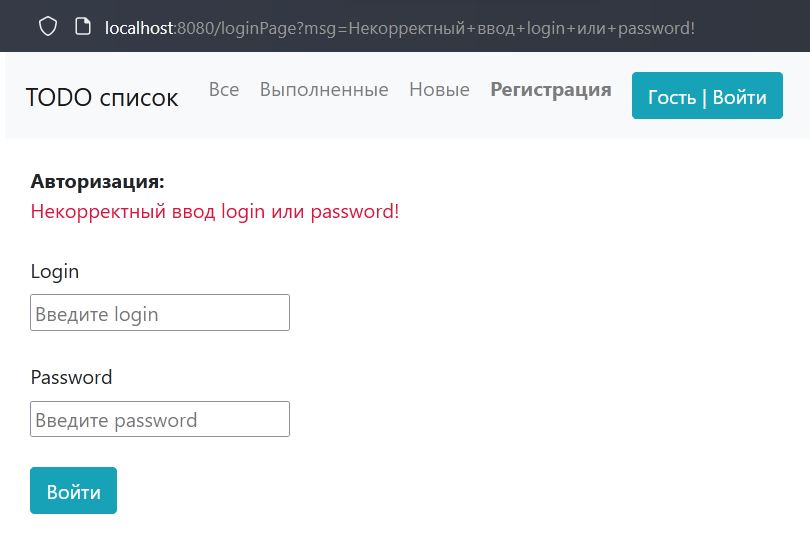
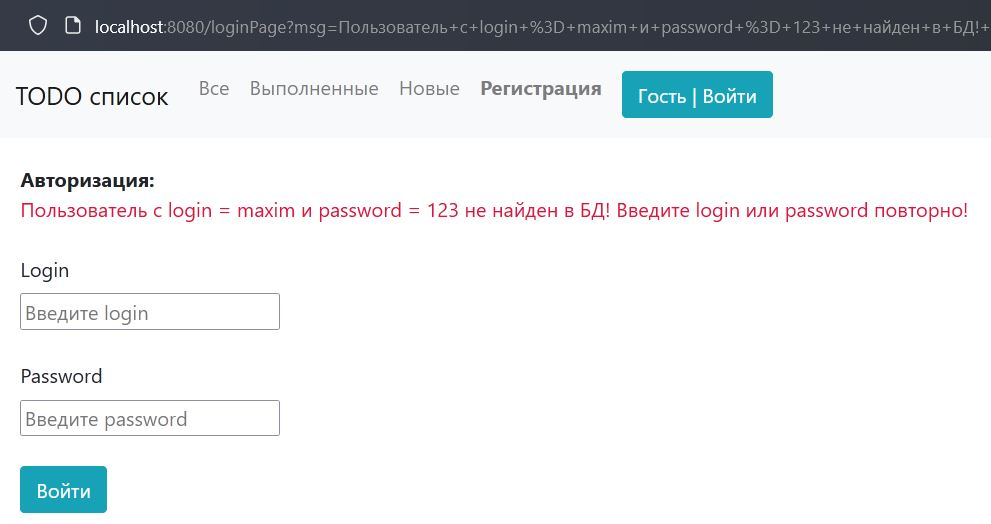
Editing signatures of methods of layers of services and persistence

diff --git a/src/main/java/ru/job4j/todo/service/user/UserServiceImpl.java b/src/main/java/ru/job4j/todo/service/user/UserServiceImpl.java
@@ -5,8 +5,6 @@ import org.springframework.stereotype.Service;
 import ru.job4j.todo.model.User;
 import ru.job4j.todo.repository.user.UserRepository;
 
-import java.util.Optional;
-
 /**
  * Реализация сервиса пользователей
  */
@@ -21,6 +19,23 @@ public class UserServiceImpl implements UserService {
 
     @Override
     public User add(User user) {
+        String userName = user.getName();
+        boolean find = store.findUserByLogin(user.getLogin());
+        if (userName.equals("Гость")) {
+            throw new IllegalArgumentException(
+                            "Уважаемый пользователь! Введённое вами имя "
+                                    + "'Гость' не может быть использовано в "
+                                    + "приложении! Придумайте другое имя!"
+                    );
+        }
+        if (find) {
+            throw new IllegalArgumentException(
+                    String.format(
+                    "Уважаемый/ая, %s! Пользователь с login = %s уже существует! "
+                            + "Придумайте другой login!",
+                            user.getName(), user.getLogin()
+            ));
+        }
         return store.add(user);
     }
 
@@ -35,17 +50,38 @@ public class UserServiceImpl implements UserService {
     }
 
     @Override
-    public Optional<User> findUserByLoginAndPwd(String login, String password) {
+    public User findUserByLoginAndPwd(String login, String password) {
         return store.findUserByLoginAndPwd(login, password);
     }
 
     @Override
-    public Optional<User> findUserById(int id) {
+    public User findUserById(int id) {
         return store.findUserById(id);
     }
 
     @Override
     public void update(User user) {
+        User current = findUserById(user.getId());
+        String currentLogin = current.getLogin();
+        String userName = user.getName();
+        String userLogin = user.getLogin();
+        if (userName.equals("Гость")) {
+            throw new IllegalArgumentException(
+                    String.format(
+                            "Уважаемый/ая, %s! Пользователь с именем 'Гость' "
+                                    + "не может быть зарегистрирован в "
+                                    + "системе! Придумайте другое имя!",
+                            current.getName()
+                    ));
+        }
+        if (findUserByLogin(userLogin) && !userLogin.equals(currentLogin)) {
+            throw new IllegalArgumentException(
+                    String.format(
+                            "Уважаемый/ая, %s! Пользователь с login = %s уже "
+                                    + "существует! Придумайте другой login!",
+                            current.getName(), userLogin
+                    ));
+        }
         store.update(user);
     }
 }

diff --git a/src/main/java/ru/job4j/todo/repository/user/UserRepositoryImpl.java b/src/main/java/ru/job4j/todo/repository/user/UserRepositoryImpl.java
@@ -6,7 +6,7 @@ import ru.job4j.todo.model.User;
 import ru.job4j.todo.repository.crud.CrudRepository;
 
 import java.util.Map;
-import java.util.Optional;
+import java.util.NoSuchElementException;
 
 /**
  * Реализация хранилища пользователей
@@ -41,21 +41,30 @@ public class UserRepositoryImpl implements UserRepository {
     }
 
     @Override
-    public Optional<User> findUserByLoginAndPwd(String login, String password) {
+    public User findUserByLoginAndPwd(String login, String password) {
         return crudRepository.optional(
                 "from User where login = :fLogin AND password = :fPwd",
                 User.class,
                 Map.of("fLogin", login, "fPwd", password)
-        );
+        ).orElseThrow(
+                () -> new NoSuchElementException(
+                        String.format("Пользователь с login = %s"
+                                + " и password = %s не найден в БД! ",
+                                login, password)
+                ));
     }
 
     @Override
-    public Optional<User> findUserById(int id) {
+    public User findUserById(int id) {
         return crudRepository.optional(
                 "from User where id = :fId",
                 User.class,
                 Map.of("fId", id)
-        );
+        ).orElseThrow(
+                () -> new NoSuchElementException(
+                        String.format("Пользователь с id = %d"
+                                        + " не найден в БД! ", id)
+                ));
     }
 
     @Override

diff --git a/src/main/java/ru/job4j/todo/repository/user/UserRepository.java b/src/main/java/ru/job4j/todo/repository/user/UserRepository.java
@@ -2,8 +2,6 @@ package ru.job4j.todo.repository.user;
 
 import ru.job4j.todo.model.User;
 
-import java.util.Optional;
-
 /**
  * Хранилище пользователей
  */
@@ -26,18 +24,18 @@ public interface UserRepository {
      * Находит пользователя в базе данных по login и password.
      * @param login login пользователя.
      * @param password password пользователя.
-     * @return Optional<User>, если пользователь найден в базе данных,
-     * иначе Optional.empty()
+     * @return пользователя, если он найден,
+     * иначе выбрасывает исключение
      */
-    Optional<User> findUserByLoginAndPwd(String login, String password);
+    User findUserByLoginAndPwd(String login, String password);
 
     /**
      * Находит пользователя в базе данных по ID.
      * @param id пользователя.
-     * @return Optional<User>, если пользователь найден в базе данных,
-     * иначе Optional.empty()
+     * @return пользователя, если он найден,
+     * иначе выбрасывает исключение
      */
-    Optional<User> findUserById(int id);
+    User findUserById(int id);
 
     /**
      * Проверяет наличие пользователя в базе данных по login.

diff --git a/src/main/java/ru/job4j/todo/service/user/UserService.java b/src/main/java/ru/job4j/todo/service/user/UserService.java
@@ -2,8 +2,6 @@ package ru.job4j.todo.service.user;
 
 import ru.job4j.todo.model.User;
 
-import java.util.Optional;
-
 /**
  * Сервис пользователей
  */
@@ -26,18 +24,18 @@ public interface UserService {
      * Находит пользователя по login и password.
      * @param login login пользователя.
      * @param password password пользователя.
-     * @return Optional<User>, если пользователь найден,
-     * иначе Optional.empty()
+     * @return пользователя, если он найден,
+     * иначе выбрасывает исключение
      */
-    Optional<User> findUserByLoginAndPwd(String login, String password);
+    User findUserByLoginAndPwd(String login, String password);
 
     /**
      * Находит пользователя по ID.
      * @param id id пользователя.
-     * @return Optional<User>, если пользователь найден,
-     * иначе Optional.empty()
+     * @return пользователя, если он найден,
+     * иначе выбрасывает исключение
      */
-    Optional<User> findUserById(int id);
+    User findUserById(int id);
 
     /**
      * Находит пользователя по login.

diff --git a/src/main/java/ru/job4j/todo/repository/item/priority/PriorityRepositoryImpl.java b/src/main/java/ru/job4j/todo/repository/item/priority/PriorityRepositoryImpl.java
@@ -7,7 +7,7 @@ import ru.job4j.todo.repository.crud.CrudRepository;
 
 import java.util.List;
 import java.util.Map;
-import java.util.Optional;
+import java.util.NoSuchElementException;
 
 /**
  * Реализация хранилища приоритетов задач
@@ -28,11 +28,16 @@ public class PriorityRepositoryImpl implements PriorityRepository {
     }
 
     @Override
-    public Optional<Priority> findByPosition(int position) {
+    public Priority findByPosition(int position) {
         return crudRepository.optional(
                 "from Priority where position = :fPos",
                 Priority.class,
                 Map.of("fPos", position)
+        ).orElseThrow(
+                () -> new NoSuchElementException(
+                        String.format("Приоритет с position = %d"
+                                + " не найден в БД! ", position)
+                )
         );
     }
 }

diff --git a/src/main/java/ru/job4j/todo/repository/timezonestore/TimeZoneRepositoryImpl.java b/src/main/java/ru/job4j/todo/repository/timezonestore/TimeZoneRepositoryImpl.java
@@ -7,7 +7,7 @@ import ru.job4j.todo.repository.crud.CrudRepository;
 
 import java.util.List;
 import java.util.Map;
-import java.util.Optional;
+import java.util.NoSuchElementException;
 
 /**
  * Реализация хранилища часовых поясов
@@ -28,11 +28,15 @@ public class TimeZoneRepositoryImpl implements TimeZoneRepository {
     }
 
     @Override
-    public Optional<TimeZone> findById(int tzId) {
+    public TimeZone findById(int tzId) {
         return crudRepository.optional(
                 "from TimeZone where id = :fId",
                 TimeZone.class,
                 Map.of("fId", tzId)
-        );
+        ).orElseThrow(
+                () -> new NoSuchElementException(
+                        String.format("Часовой пояс с id = %d"
+                                + " не найден в БД! ", tzId)
+                ));
     }
 }

diff --git a/src/main/java/ru/job4j/todo/repository/item/category/CategoryRepositoryImpl.java b/src/main/java/ru/job4j/todo/repository/item/category/CategoryRepositoryImpl.java
@@ -7,7 +7,7 @@ import ru.job4j.todo.repository.crud.CrudRepository;
 
 import java.util.List;
 import java.util.Map;
-import java.util.Optional;
+import java.util.NoSuchElementException;
 
 /**
  * Реализация хранилища категорий
@@ -28,11 +28,15 @@ public class CategoryRepositoryImpl implements CategoryRepository {
     }
 
     @Override
-    public Optional<Category> findById(int id) {
+    public Category findById(int id) {
         return crudRepository.optional(
                 "from Category where id = :fId",
                 Category.class,
                 Map.of("fId", id)
-        );
+        ).orElseThrow(
+                () -> new NoSuchElementException(
+                        String.format("Категория с id = %d"
+                                        + " не найдена в БД! ", id)
+                ));
     }
 }

diff --git a/src/main/java/ru/job4j/todo/repository/item/priority/PriorityRepository.java b/src/main/java/ru/job4j/todo/repository/item/priority/PriorityRepository.java
@@ -3,7 +3,6 @@ package ru.job4j.todo.repository.item.priority;
 import ru.job4j.todo.model.Priority;
 
 import java.util.List;
-import java.util.Optional;
 
 /**
  * Хранилище для приоритетов задач
@@ -19,8 +18,8 @@ public interface PriorityRepository {
     /**
      * Находит приоритет в базе данных по его числовому значению
      * @param position числовое значение приоритета
-     * @return Optional.of(priority), если приоритет найден,
-     * иначе Optional.empty()
+     * @return приоритет, если он найден,
+     * иначе выбрасывает исключение
      */
-    Optional<Priority> findByPosition(int position);
+    Priority findByPosition(int position);
 }

diff --git a/src/main/java/ru/job4j/todo/service/item/priority/PriorityService.java b/src/main/java/ru/job4j/todo/service/item/priority/PriorityService.java
@@ -3,7 +3,6 @@ package ru.job4j.todo.service.item.priority;
 import ru.job4j.todo.model.Priority;
 
 import java.util.List;
-import java.util.Optional;
 
 /**
  * Сервис приоритетов задач
@@ -19,8 +18,8 @@ public interface PriorityService {
     /**
      * Находит приоритет задачи по его числовому значению
      * @param position числовое значение приоритета
-     * @return Optional.of(priority), если приоритет найден,
-     * иначе Optional.empty()
+     * @return приоритет, если он найден,
+     * иначе выбрасывает исключение
      */
-    Optional<Priority> findByPosition(int position);
+    Priority findByPosition(int position);
 }

diff --git a/src/main/java/ru/job4j/todo/repository/item/ItemRepository.java b/src/main/java/ru/job4j/todo/repository/item/ItemRepository.java
@@ -4,7 +4,6 @@ import ru.job4j.todo.model.Item;
 import ru.job4j.todo.model.User;
 
 import java.util.List;
-import java.util.NoSuchElementException;
 
 /**
  * Хранилище задач пользователя
@@ -64,8 +63,8 @@ public interface ItemRepository {
      * Находит задачу в базе данных по ID, принадлежащую пользователю.
      * @param id id задачи,
      * @param user пользователь
-     * @return задачу, если она найдена в базе данных,
+     * @return задачу, если она найдена,
      * иначе выбрасывает исключение
      */
-    Item findById(int id, User user) throws NoSuchElementException;
+    Item findById(int id, User user);
 }

diff --git a/src/main/java/ru/job4j/todo/repository/timezonestore/TimeZoneRepository.java b/src/main/java/ru/job4j/todo/repository/timezonestore/TimeZoneRepository.java
@@ -3,7 +3,6 @@ package ru.job4j.todo.repository.timezonestore;
 import ru.job4j.todo.model.TimeZone;
 
 import java.util.List;
-import java.util.Optional;
 
 /**
  * Хранилище для часовых поясов
@@ -19,8 +18,8 @@ public interface TimeZoneRepository {
     /**
      * Находит часовой пояс в базе данных по ID
      * @param tzId идентификатор часового пояса
-     * @return Optional.of(timeZone), если часовой пояс найден,
-     * иначе Optional.empty()
+     * @return часовой пояс, если он найден,
+     * иначе выбрасывает исключение
      */
-    Optional<TimeZone> findById(int tzId);
+    TimeZone findById(int tzId);
 }

diff --git a/src/main/java/ru/job4j/todo/repository/item/category/CategoryRepository.java b/src/main/java/ru/job4j/todo/repository/item/category/CategoryRepository.java
@@ -3,7 +3,6 @@ package ru.job4j.todo.repository.item.category;
 import ru.job4j.todo.model.Category;
 
 import java.util.List;
-import java.util.Optional;
 
 /**
  * Хранилище для категорий задач
@@ -19,8 +18,8 @@ public interface CategoryRepository {
     /**
      * Находит категорию в базе данных по id
      * @param id id категории
-     * @return Optional.of(category), если категория найдена,
-     * иначе Optional.empty()
+     * @return катагорию, если она найдена,
+     * иначе выбрасывает исключение
      */
-    Optional<Category> findById(int id);
+    Category findById(int id);
 }
